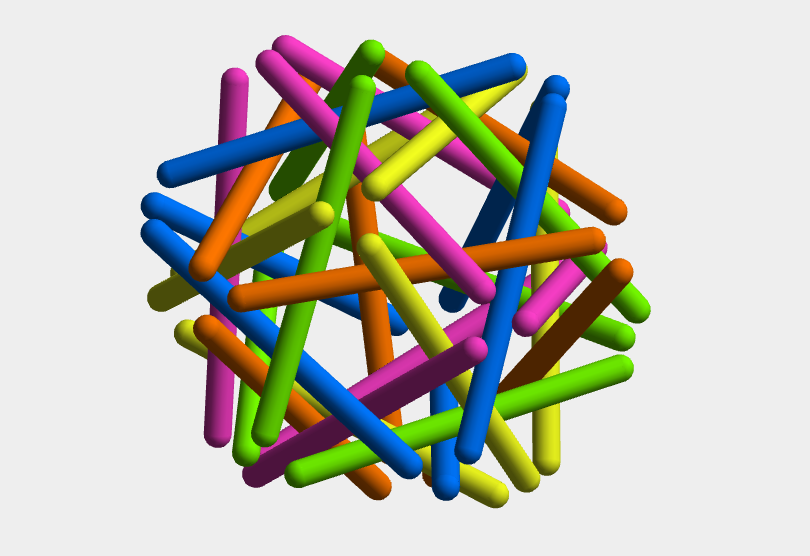
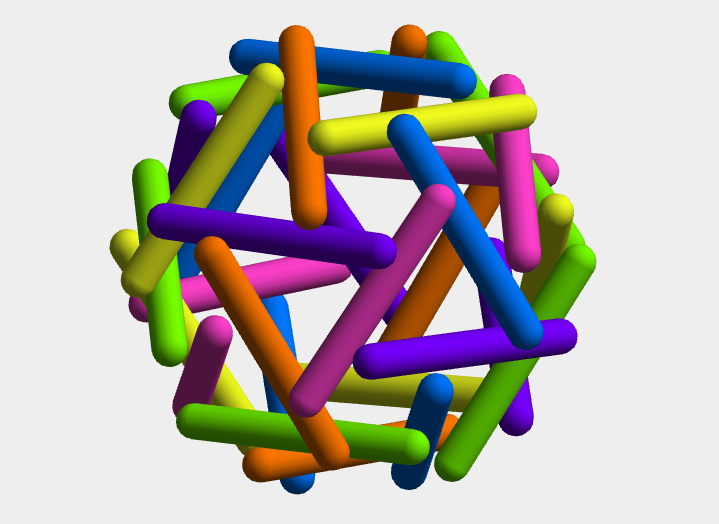
Add files via upload

diff --git a/mebius/script1.js b/mebius/script1.js
@@ -1,5 +1,5 @@
-let tubecolor1 = 0xd18143;  //tubeの色　uカーブ
-let tubecolor2 = 0x47bf9b;  //tubeの色　vカーブ
+let tubecolor1 = 0xd36922;  //tubeの色　uカーブ
+let tubecolor2 = 0x1aa81d;  //tubeの色　vカーブ
 let surfacecolor = 0xe9fe95;    //曲面の色
 let surfacealpha = 0.7; //曲面の透明度
 let backgroundcolor = 0xeeeeee; //背景色
@@ -90,6 +90,31 @@ dummymesh.rotation.set(0.3, 0, 0);
 
 let geometry_surface, material_surface, mesh_surface;
 let mesh_surface_group = new Array(vts2.length);
+
+let index0 = [];
+let index2 = [];
+let index3 = [];
+
+
+for(let i=0; i<index1.length; i+=3){
+
+    let a1 = 240*4;
+    if(9600/2-a1<=i && i<9600/2+a1){
+        index2.push(index1[i]);
+        index2.push(index1[i+1]);
+        index2.push(index1[i+2]);
+    }
+
+
+    let a2 = 240*8;
+    if((a2<=i&&i<9600/2-a2) || (9600/2+a2<=i&&i<9600-a2)){
+        index3.push(index1[i]);
+        index3.push(index1[i+1]);
+        index3.push(index1[i+2]);
+    }
+}
+
+
 
 
 material_surface = new THREE.MeshPhongMaterial({color:surfacecolor, side:THREE.DoubleSide, transparent:true, opacity:surfacealpha});
@@ -222,11 +247,51 @@ slider1.addEventListener('input',()=>{
 });
 
 
-const check1 = document.getElementById('check1');
-check1.addEventListener('change',(event)=>{
-    console.log(event.target.checked);
-    for(let i=0; i<mesh_surface_group.length; i++){
-        mesh_surface_group[i].visible = event.target.checked;
+// const check1 = document.getElementById('check1');
+// check1.addEventListener('change',(event)=>{
+//     // console.log(event.target.checked);
+//     // for(let i=0; i<mesh_surface_group.length; i++){
+//     //     mesh_surface_group[i].visible = event.target.checked;
+//     // }
+
+
+//     for(let i=0; i<vts2.length; i++){
+//         mesh_surface_group[i].geometry.setIndex(new THREE.BufferAttribute(new Uint16Array(index1),1));
+//         mesh_surface_group[i].geometry.computeVertexNormals();
+//     }
+
+// });
+
+
+const select1 = document.getElementById('select1');
+select1.value = 'option2';
+select1.addEventListener('change',(event)=>{
+    if(event.target.value=='option1'){
+        for(let i=0; i<vts2.length; i++){
+            mesh_surface_group[i].geometry.setIndex(new THREE.BufferAttribute(new Uint16Array(index0),1));
+            mesh_surface_group[i].geometry.computeVertexNormals();
+        }
+    }
+    if(event.target.value=='option2'){
+        for(let i=0; i<vts2.length; i++){
+            mesh_surface_group[i].geometry.setIndex(new THREE.BufferAttribute(new Uint16Array(index1),1));
+            mesh_surface_group[i].geometry.computeVertexNormals();
+            mesh_surface_group[i].material.opacity=0.7;
+        }
+    }
+    if(event.target.value=='option3'){
+        for(let i=0; i<vts2.length; i++){
+            mesh_surface_group[i].geometry.setIndex(new THREE.BufferAttribute(new Uint16Array(index2),1));
+            mesh_surface_group[i].geometry.computeVertexNormals();
+            mesh_surface_group[i].material.opacity=1;
+        }
+    }
+    if(event.target.value=='option4'){
+        for(let i=0; i<vts2.length; i++){
+            mesh_surface_group[i].geometry.setIndex(new THREE.BufferAttribute(new Uint16Array(index3),1));
+            mesh_surface_group[i].geometry.computeVertexNormals();
+            mesh_surface_group[i].material.opacity=1;
+        }
     }
 });
 

diff --git a/mebius/index.html b/mebius/index.html
@@ -11,17 +11,24 @@
 
     <a href="../" id="link1">HOME</a>
 
-    <input type="color" id="colorpicker1">
-    <input type="color" id="colorpicker2">
-    <input type="color" id="colorpicker3">
+    <input type="color" id="colorpicker1" hidden="true">
+    <input type="color" id="colorpicker2" hidden="true">
+    <input type="color" id="colorpicker3" hidden="true">
 
     <canvas id="canvas1"></canvas>
     
     <input type="range" id="slider1" min="0" max="20" value="10">
 
-    <div id="container1">
+    <!-- <div id="container1">
       <label><input type="checkbox" id="check1" checked="true">曲面を描画</label>
-    </div>
+    </div> -->
+
+    <select id="select1">
+      <option value="option1">曲面なし</option>
+      <option value="option2">曲面A</option>
+      <option value="option3">曲面B</option>
+      <option value="option4">曲面C</option>
+    </select>
 
     <!--three.jsライブラリ-->
     <script src="https://unpkg.com/three@0.131.3/build/three.min.js"></script>

diff --git a/index.html b/index.html
@@ -9,14 +9,14 @@
 
   <body>
 
-    <h2>【公開講座】図形の世界　2024年6月22日</h2>
+    <h3>【公開講座】図形の世界 2024年</h3>
 
     <a href="mebius/index.html" style="margin:10px 10px 20px 20px">4次元を経由したメビウスの帯</a>
 
     <br>
 
     <a href="mebius/index.html">
-      <img src="thumbnail1.png" style="width:400px">
+      <img src="thumbnail1.png" style="width:300px">
     </a>
 
     <p style="margin:50px 10px 20px 20px"></p>
@@ -26,7 +26,7 @@
     <br>
 
     <a href="henkaiten/index.html">
-      <img src="thumbnail2.png" style="width:400px">
+      <img src="thumbnail2.png" style="width:300px">
     </a>
 
   </body>

diff --git a/mebius/style.css b/mebius/style.css
@@ -59,3 +59,11 @@ cnavas{
     left:3%;
     font-size:30px;
 }
+
+#select1{
+    position:absolute;
+    top:3%;
+    right:5%;
+    width:33%;
+    font-size:40px;
+}
